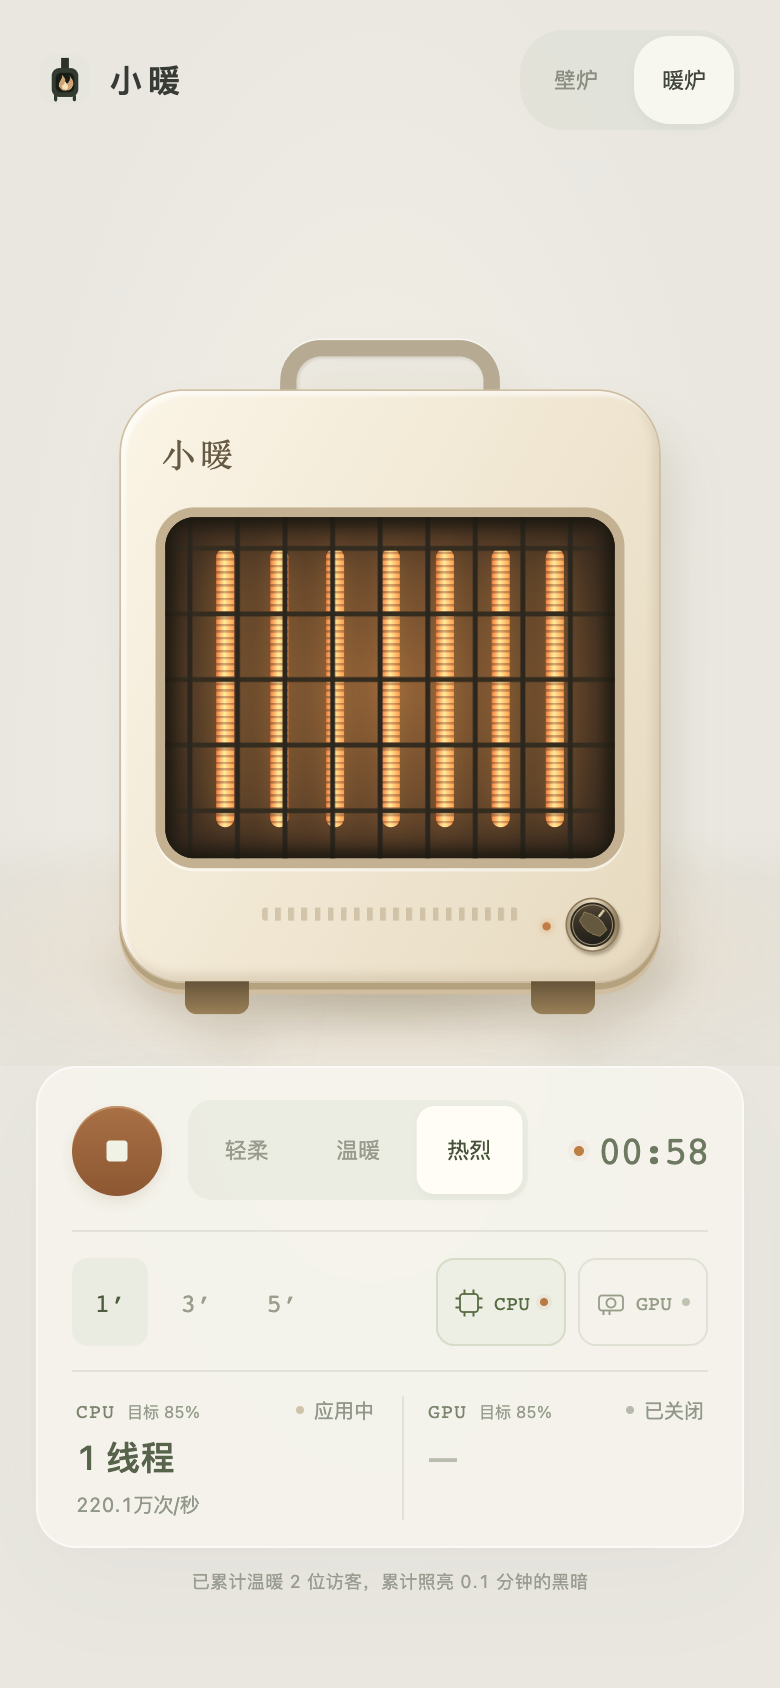
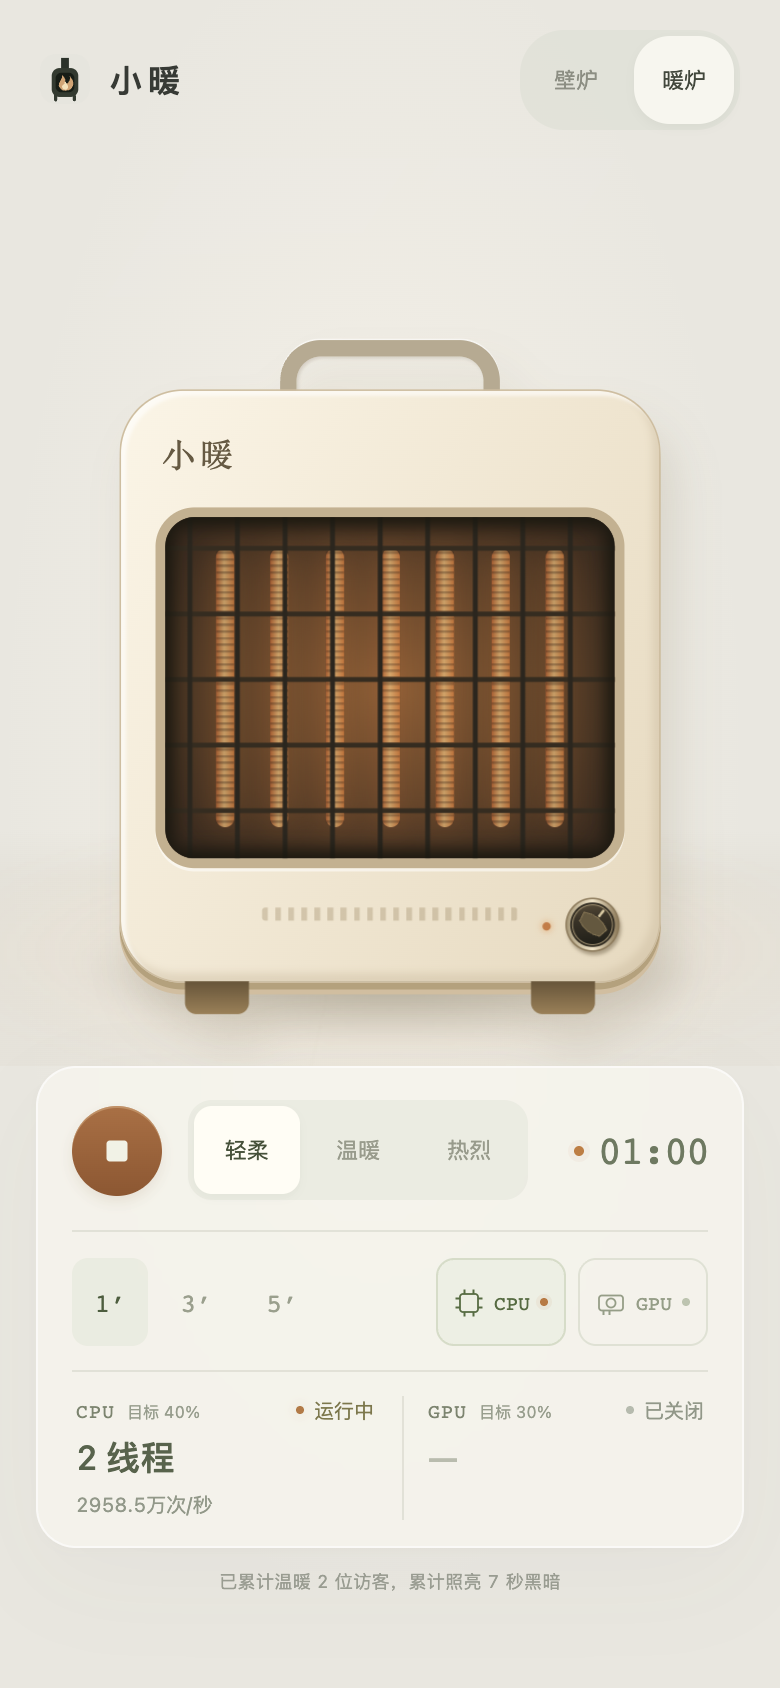
Show cumulative illumination in whole seconds

diff --git a/public/community.js b/public/community.js
@@ -9,7 +9,7 @@ const identifier = () => {
   } catch { return null; }
 };
 const publicHosts = new Set(['warm.gongfpp.icu','cyber-handwarmer-a0z0axp0.edgeone.dev']);
-const format = new Intl.NumberFormat('zh-CN',{maximumFractionDigits:1});
+const format = new Intl.NumberFormat('zh-CN',{maximumFractionDigits:0});
 export class Community {
   run = null; timer = null; scope = null; totals = null;
   constructor(node) { this.node=node; this.ready=this.load(); }
@@ -23,8 +23,8 @@ export class Community {
     this.scope=data.scope;
     if(this.totals&&(data.visitors<this.totals.visitors||data.litMs<this.totals.litMs))return;
     this.totals=data;
-    const minutes=Math.floor(data.litMs/6000)/10;
-    this.node.textContent=`已累计温暖 ${format.format(data.visitors)} 位访客，累计照亮 ${format.format(minutes)} 分钟的黑暗`;
+    const seconds=Math.floor(data.litMs/1000);
+    this.node.textContent=`已累计温暖 ${format.format(data.visitors)} 位访客，累计照亮 ${format.format(seconds)} 秒黑暗`;
     this.node.hidden=false;
   }
   start() {

diff --git a/README.md b/README.md
@@ -31,7 +31,7 @@
 
 声音随电源启停，壁炉收尾配合短促水声，电暖炉配合机械开关声，无需单独操作。页面隐藏或离开时立即停声，返回后不会自动播放。浏览器不支持或阻止音频时，其他功能仍可使用。
 
-页脚用一行灰字显示「已累计温暖 xx 位访客，累计照亮 xx 分钟的黑暗」。访客在主动开启后才计入，同一浏览器重复开启不会重复计人；时长累计实际点亮的时间，包含纯炉火展示，熄火动画不计入。累计从该功能上线开始，没有补写历史数字。
+页脚用一行灰字显示「已累计温暖 xx 位访客，累计照亮 xx 秒黑暗」。访客在主动开启后才计入，同一浏览器重复开启不会重复计人；时长累计实际点亮的时间，包含纯炉火展示，熄火动画不计入。累计从该功能上线开始，没有补写历史数字。
 
 统计只上传随机浏览器标识、每次开启的随机标识和累计点亮毫秒数，不上传硬件信息、位置或浏览记录。清除网站数据或换浏览器会被视为新访客，人数不等于严格去重的自然人。数据保存在腾讯云 EdgeOne；统计不可用时隐藏该行，其余功能照常使用。
 

diff --git a/docs/deployment.md b/docs/deployment.md
@@ -43,7 +43,7 @@ CLI 使用本机登录状态，不要把 Token 放进代码、提交记录或公
 
 ## 累计统计
 
-`GET /api/warmth` 返回 `{ visitors, sessions, litMs, scope }`。主动开启后 `POST` 随机 `visitorId`、`runId` 与本次累计 `litMs`，每 30 秒和停止时报告；隐藏或离开时尝试发送最后一份。异常关闭或网络失败可能丢失最后一个间隔的数据，不回填猜测值。展示时间以 0.1 分钟为单位向下取整。
+`GET /api/warmth` 返回 `{ visitors, sessions, litMs, scope }`。主动开启后 `POST` 随机 `visitorId`、`runId` 与本次累计 `litMs`，每 30 秒和停止时报告；隐藏或离开时尝试发送最后一份。异常关闭或网络失败可能丢失最后一个间隔的数据，不回填猜测值。展示时间换算为整秒并向下取整。
 
 Blob 的 `little-warmth-live-v1` 命名空间保存正式域名和项目默认域名的数据；其他预览域名使用 `little-warmth-preview-v1`。部署不清空存储。没有历史埋点，不导入或补造旧数字。正式站自动化验收不写入统计。
 
